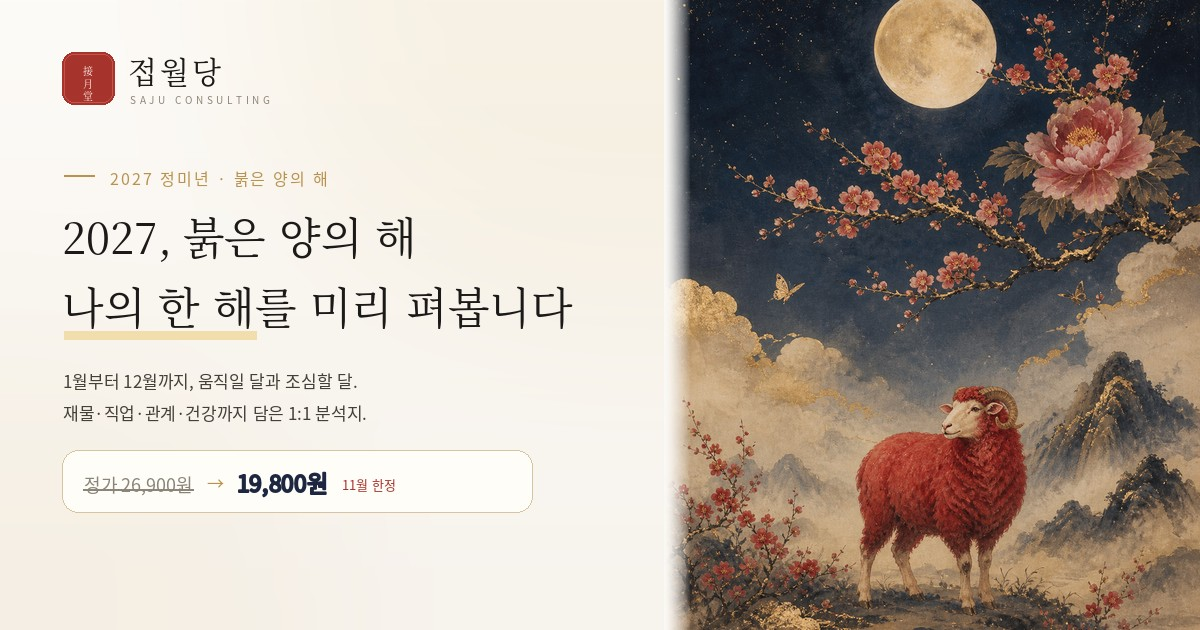
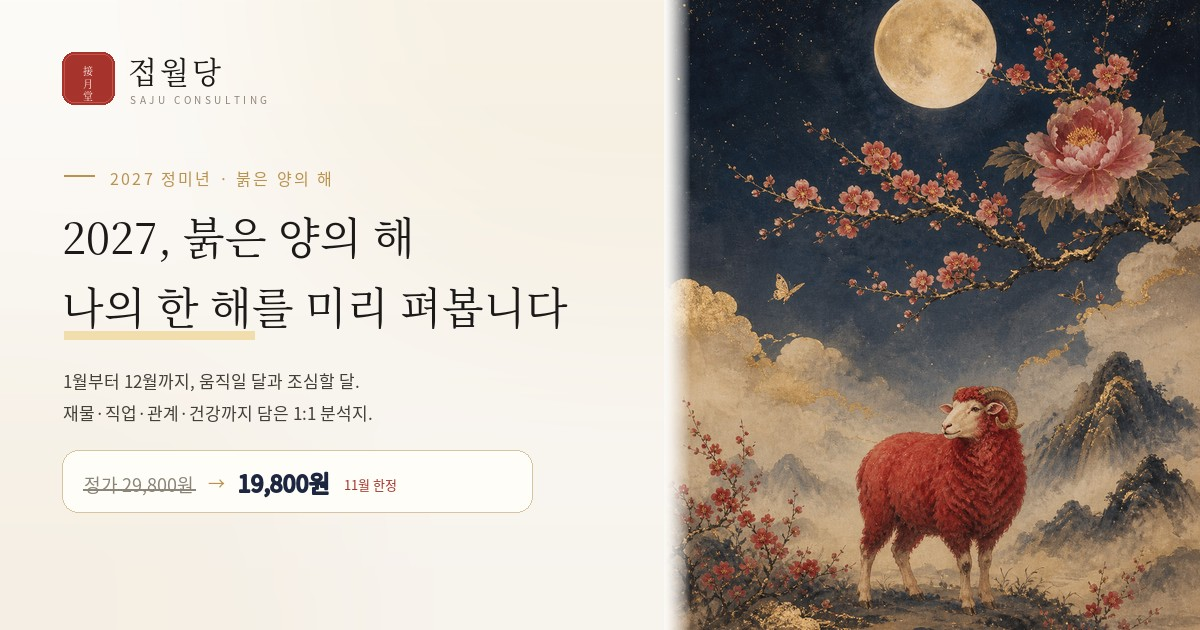
2027 신년운세: 정가 26,900원 → 29,800원 통일 (랜딩·자사몰·OG 이미지)

diff --git a/2027/index.html b/2027/index.html
@@ -5,7 +5,7 @@
 <meta name="viewport" content="width=device-width, initial-scale=1, viewport-fit=cover">
 <meta name="theme-color" content="#faf8f4">
 <title>접월당 | 2027 정미년(丁未年) 신년운세 · 붉은 양의 해 1:1 분석지</title>
-<meta name="description" content="2027 정미년(붉은 양의 해), 나의 총운과 1~12월 월별 운세, 움직일 달·조심할 달, 재물·직장·연애·건강의 흐름까지 담은 1:1 신년운세 분석지. 입금 확인 즉시 분석을 시작해 24시간 내 PDF로 이메일 발송. 11월 한정 19,800원 (정가 26,900원).">
+<meta name="description" content="2027 정미년(붉은 양의 해), 나의 총운과 1~12월 월별 운세, 움직일 달·조심할 달, 재물·직장·연애·건강의 흐름까지 담은 1:1 신년운세 분석지. 입금 확인 즉시 분석을 시작해 24시간 내 PDF로 이메일 발송. 11월 한정 19,800원 (정가 29,800원).">
 <link rel="canonical" href="https://jeopwoldang.com/2027/">
 
 <!-- 공유 미리보기 (Open Graph / X) -->
@@ -13,7 +13,7 @@
 <meta property="og:locale" content="ko_KR">
 <meta property="og:site_name" content="접월당">
 <meta property="og:title" content="접월당 | 2027 정미년 신년운세 · 붉은 양의 해 1:1 분석지">
-<meta property="og:description" content="2027 정미년, 1월부터 12월까지. 움직일 달과 조심할 달, 재물·직장·관계·건강의 흐름을 담은 1:1 신년운세 분석지. 11월 한정 19,800원 (정가 26,900원).">
+<meta property="og:description" content="2027 정미년, 1월부터 12월까지. 움직일 달과 조심할 달, 재물·직장·관계·건강의 흐름을 담은 1:1 신년운세 분석지. 11월 한정 19,800원 (정가 29,800원).">
 <meta property="og:url" content="https://jeopwoldang.com/2027/">
 <meta property="og:image" content="https://jeopwoldang.com/2027/og-image.jpg">
 <meta property="og:image:secure_url" content="https://jeopwoldang.com/2027/og-image.jpg">
@@ -1194,7 +1194,7 @@ input.input::placeholder{color:#b3ab9d}
     </figure>
 
     <div class="price-hero">
-      <span class="was" aria-label="정가 26,900원">26,900원</span>
+      <span class="was" aria-label="정가 29,800원">29,800원</span>
       <span class="now">19,800원</span>
       <span class="off">11월 한정</span>
     </div>
@@ -1206,7 +1206,7 @@ input.input::placeholder{color:#b3ab9d}
     <p class="cta-sub">1인 전용 · 입금 확인 즉시 분석 시작<br>24시간 내 PDF 분석지 이메일 발송</p>
     <p class="deadline">
       <svg viewBox="0 0 24 24" aria-hidden="true"><circle cx="12" cy="12" r="8.6"/><path d="M12 7.6v4.8l3 1.8"/></svg>
-      11월 30일 마감 · 12월부터 정상가 26,900원 적용
+      11월 30일 마감 · 12월부터 정상가 29,800원 적용
     </p>
 
     <ul class="trust">
@@ -1344,7 +1344,7 @@ input.input::placeholder{color:#b3ab9d}
           <div class="prod-lab">신청 상품 · 1인 전용</div>
           <b>접월당 2027 정미년(丁未年) 1:1 신년운세 분석지</b>
           <div class="prod-price">
-            <s>26,900원</s>
+            <s>29,800원</s>
             <strong>19,800원</strong>
             <span class="prod-tag">11월 한정</span>
           </div>
@@ -1584,7 +1584,7 @@ input.input::placeholder{color:#b3ab9d}
     name: "접월당 2027 정미년(丁未年) 1:1 신년운세 분석지",
     amount: 19800,
     text: "19,800원",
-    listText: "26,900원",
+    listText: "29,800원",
     shortName: "2027 정미년 신년운세 분석지",
     subjectPrefix: "[접월당 2027 신년운세]"
   };

diff --git a/shop/index.html b/shop/index.html
@@ -1294,7 +1294,7 @@ body:has(#doneView.is-open) .toast{bottom:112px}
 
 <!-- ===== 상단 공지 ===== -->
 <div class="topbar">
-  <b>蝶月堂 11월 한정</b><span class="dot">·</span>2027 정미년 신년운세 <b>19,800원</b><span class="topbar__extra"><span class="dot">·</span>12월 1일부터 정가 26,900원</span>
+  <b>蝶月堂 11월 한정</b><span class="dot">·</span>2027 정미년 신년운세 <b>19,800원</b><span class="topbar__extra"><span class="dot">·</span>12월 1일부터 정가 29,800원</span>
 </div>
 
 <!-- ===== 헤더 ===== -->
@@ -1914,7 +1914,7 @@ const PRODUCTS = [
     meta:[['분량','약 120페이지 내외 PDF'],['발송','평균 6시간 · 최대 12시간 내 이메일'],['추가 질문','수령일부터 10일 (2인·궁합 질문 포함)']] },
 
   { id:'new2027', cat:'saju', type:'saju', persons:1, timeRequired:false,
-    name:'2027 정미년 신년운세', price:19800, orig:26900, badge:'11월 한정', photo:'assets/card_newyear.jpg',
+    name:'2027 정미년 신년운세', price:19800, orig:29800, badge:'11월 한정', photo:'assets/card_newyear.jpg',
     cover:{hanja:'丁未', en:'2027 NEW YEAR', top:'NEW YEAR · 2027', sub:'정미년 신년운세', variant:'sun'},
     short:'정미년 한 해의 흐름을 달마다 깊게 짚어 담은 1인 전용 신년 리포트',
     desc:'2027 정미년, 나에게 오는 한 해의 흐름을 달마다 깊게 풀어 풍부하게 담았습니다. 1인 전용 상품으로 추가 질문은 포함되지 않습니다.',

diff --git a/store/index.html b/store/index.html
@@ -1237,7 +1237,7 @@ body:has(#doneView.is-open) .toast{bottom:112px}
 
 <!-- ===== 상단 공지 ===== -->
 <div class="topbar">
-  <b>蝶月堂 11월 한정</b><span class="dot">·</span>2027 정미년 신년운세 <b>19,800원</b><span class="topbar__extra"><span class="dot">·</span>12월 1일부터 정가 26,900원</span>
+  <b>蝶月堂 11월 한정</b><span class="dot">·</span>2027 정미년 신년운세 <b>19,800원</b><span class="topbar__extra"><span class="dot">·</span>12월 1일부터 정가 29,800원</span>
 </div>
 
 <!-- ===== 헤더 ===== -->
@@ -1755,7 +1755,7 @@ const PRODUCTS = [
     meta:[['분량','약 120페이지 내외 PDF'],['발송','평균 6시간 · 최대 12시간 내 이메일'],['추가 질문','수령일부터 10일 (2인·궁합 질문 포함)']] },
 
   { id:'new2027', cat:'saju', type:'saju', persons:1, timeRequired:false,
-    name:'2027 정미년 신년운세', price:19800, orig:26900, badge:'11월 한정', photo:'assets/card_newyear.jpg',
+    name:'2027 정미년 신년운세', price:19800, orig:29800, badge:'11월 한정', photo:'assets/card_newyear.jpg',
     cover:{hanja:'丁未', en:'2027 NEW YEAR', top:'NEW YEAR · 2027', sub:'정미년 신년운세', variant:'sun'},
     short:'정미년 한 해의 흐름을 달마다 깊게 짚어 담은 1인 전용 신년 리포트',
     desc:'2027 정미년, 나에게 오는 한 해의 흐름을 달마다 깊게 풀어 풍부하게 담았습니다. 1인 전용 상품으로 추가 질문은 포함되지 않습니다.',
